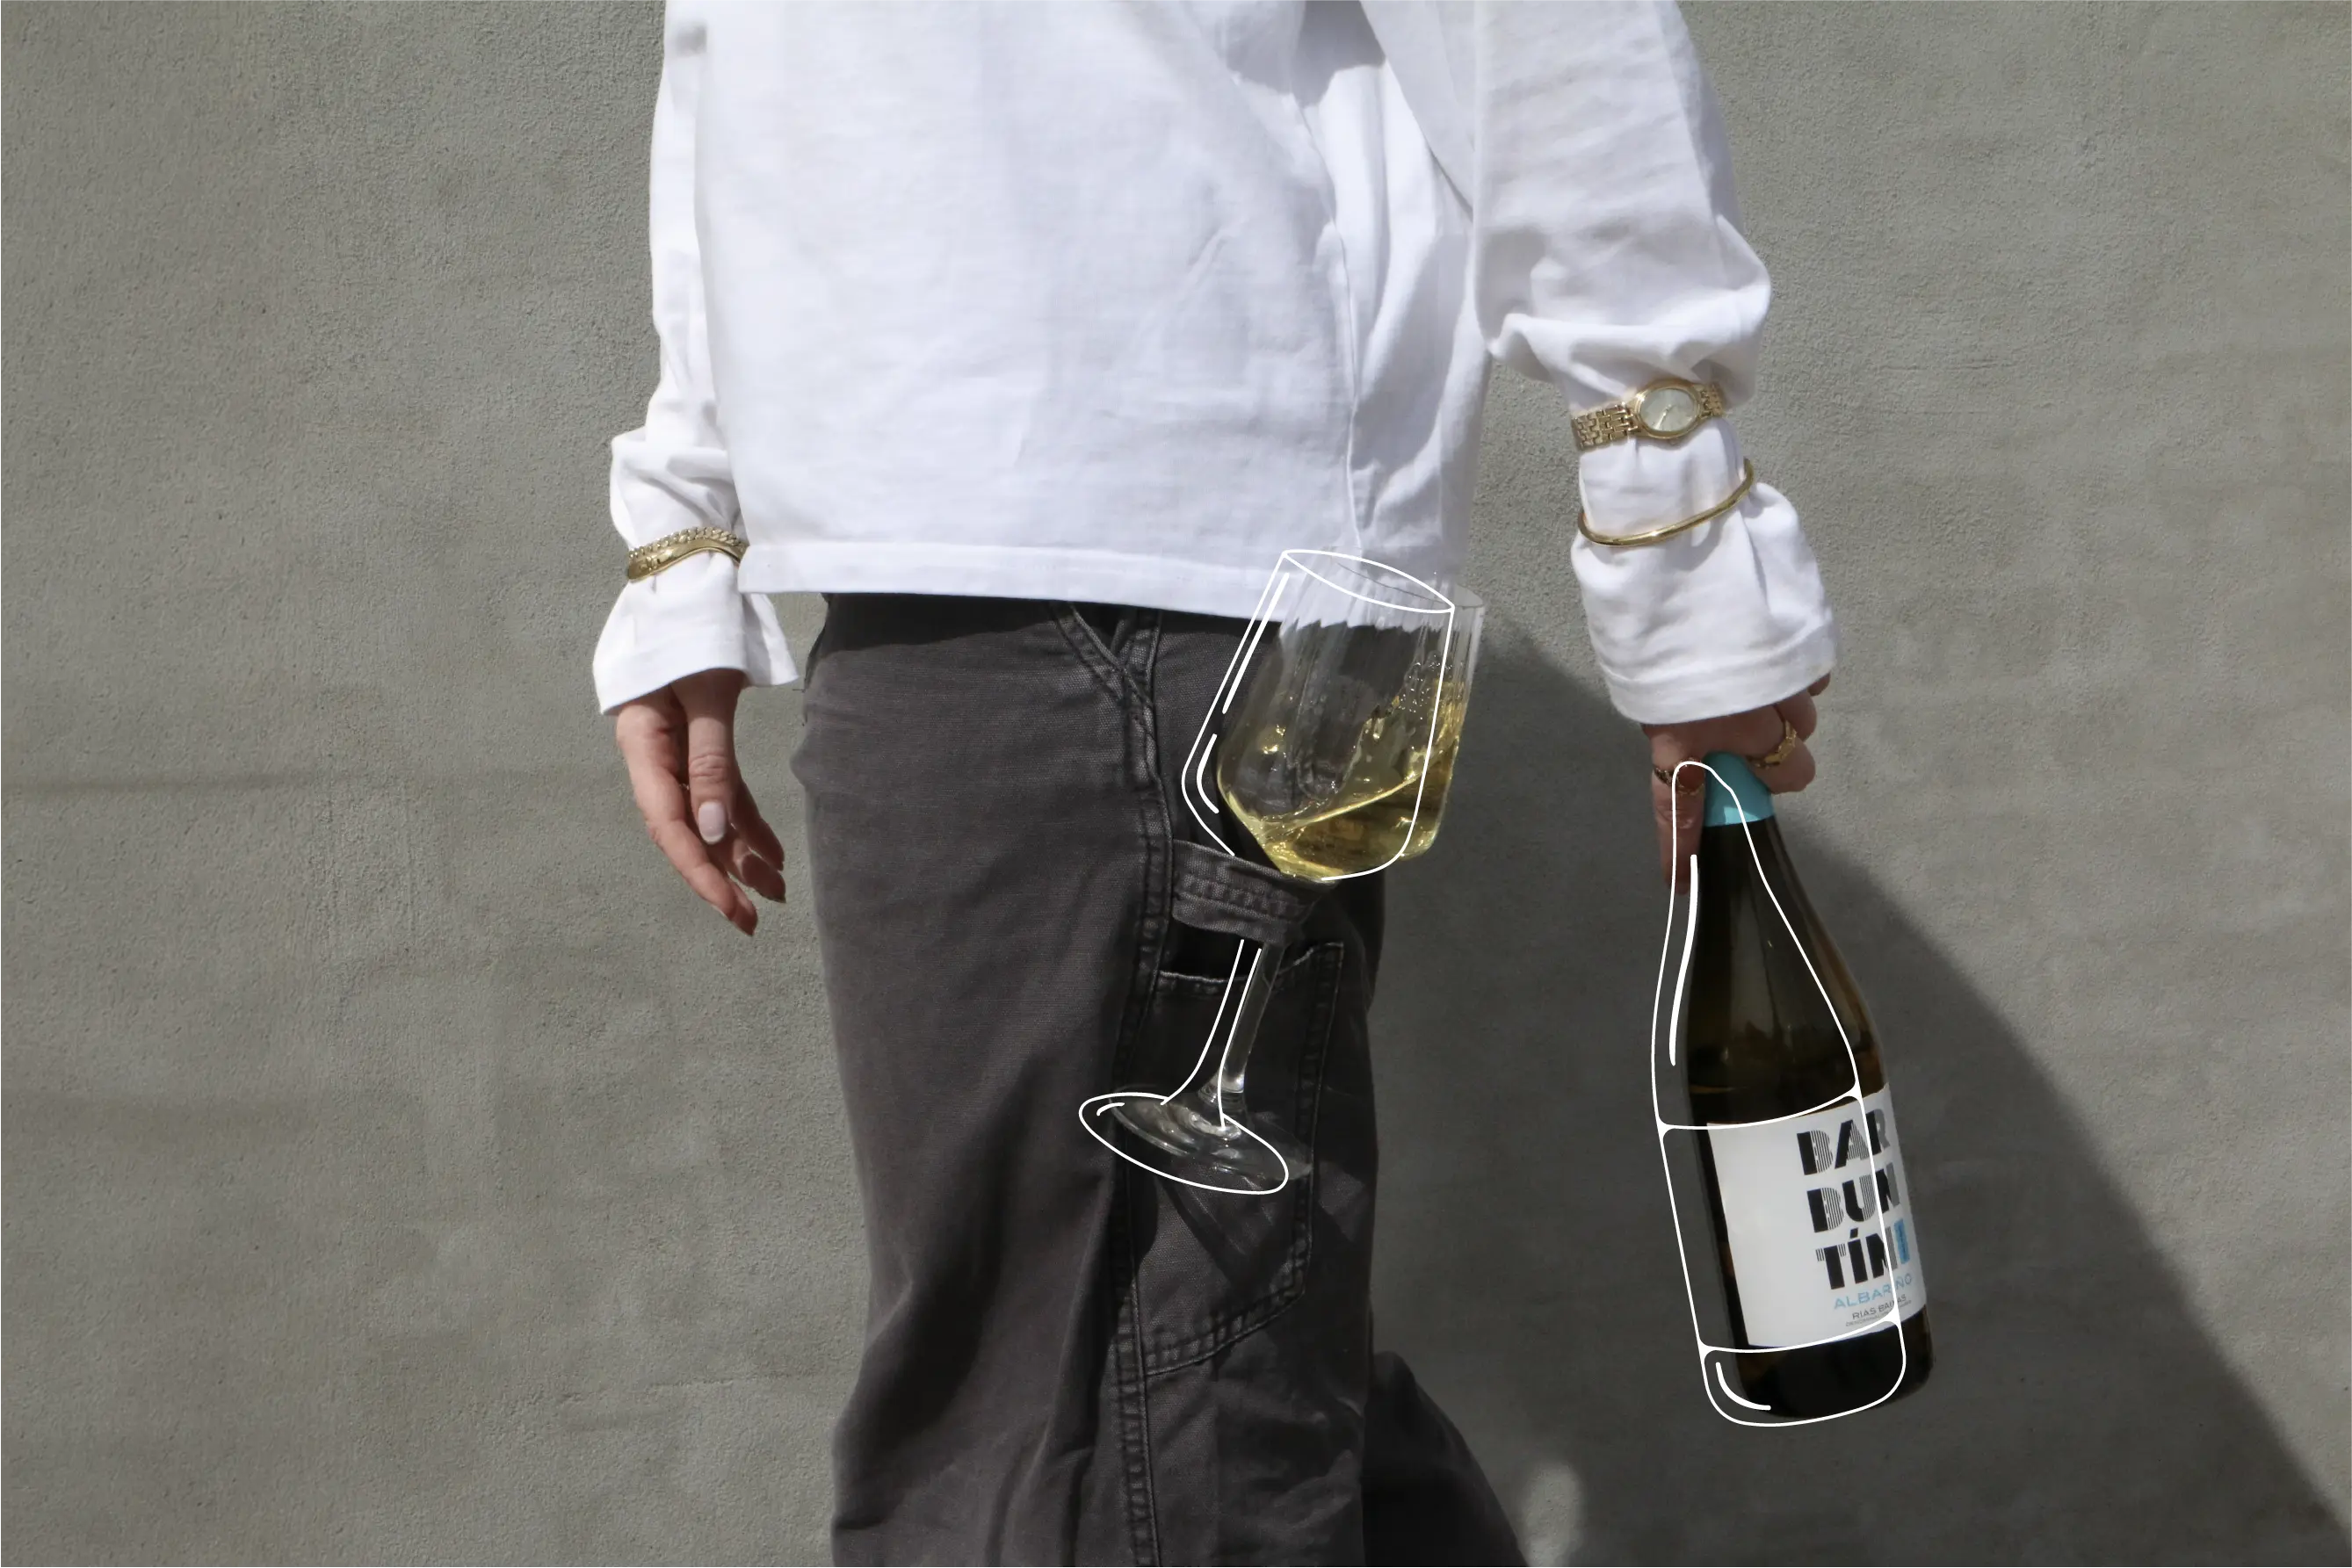
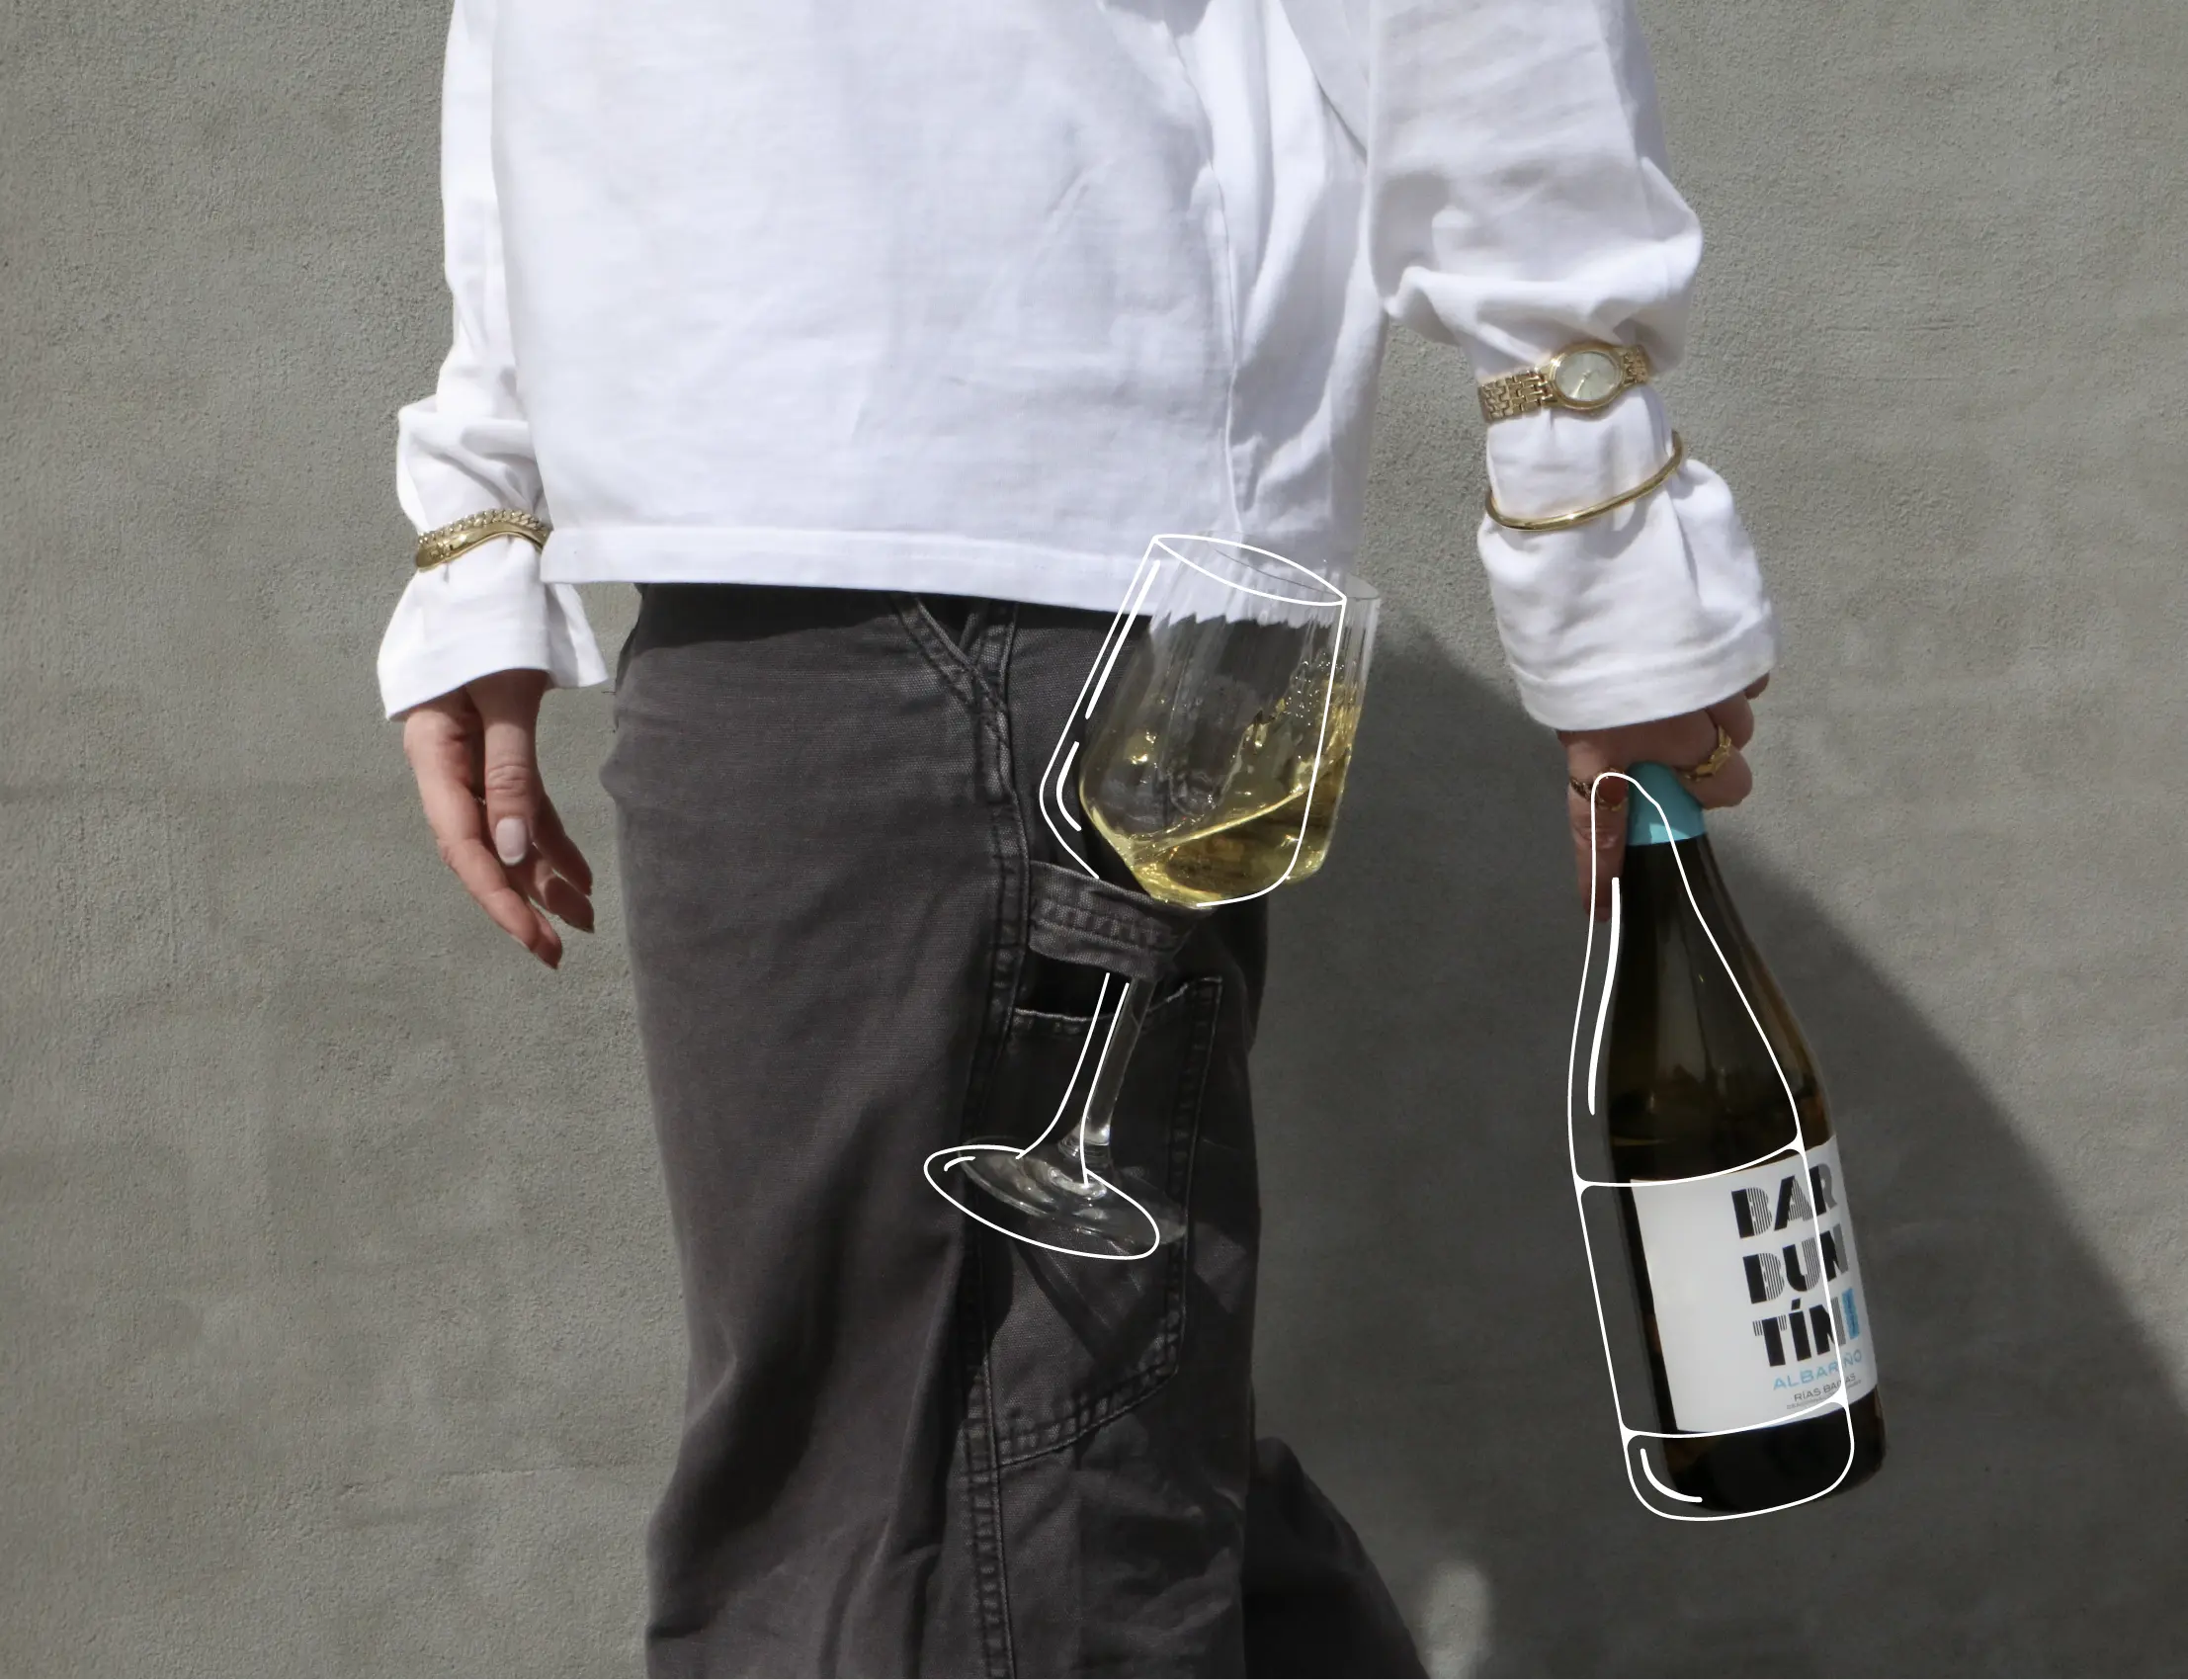
Index build, only needs linkings and fix on text/placement on crying section

diff --git a/src/styles/tailwind.css b/src/styles/tailwind.css
@@ -69,7 +69,7 @@
   
 
   /* Margin */
-  --margin-mobil: 20px;
+  --margin-mobile: 20px;
   --margin-tablet: 40px;
   --margin-web: 100px;
 